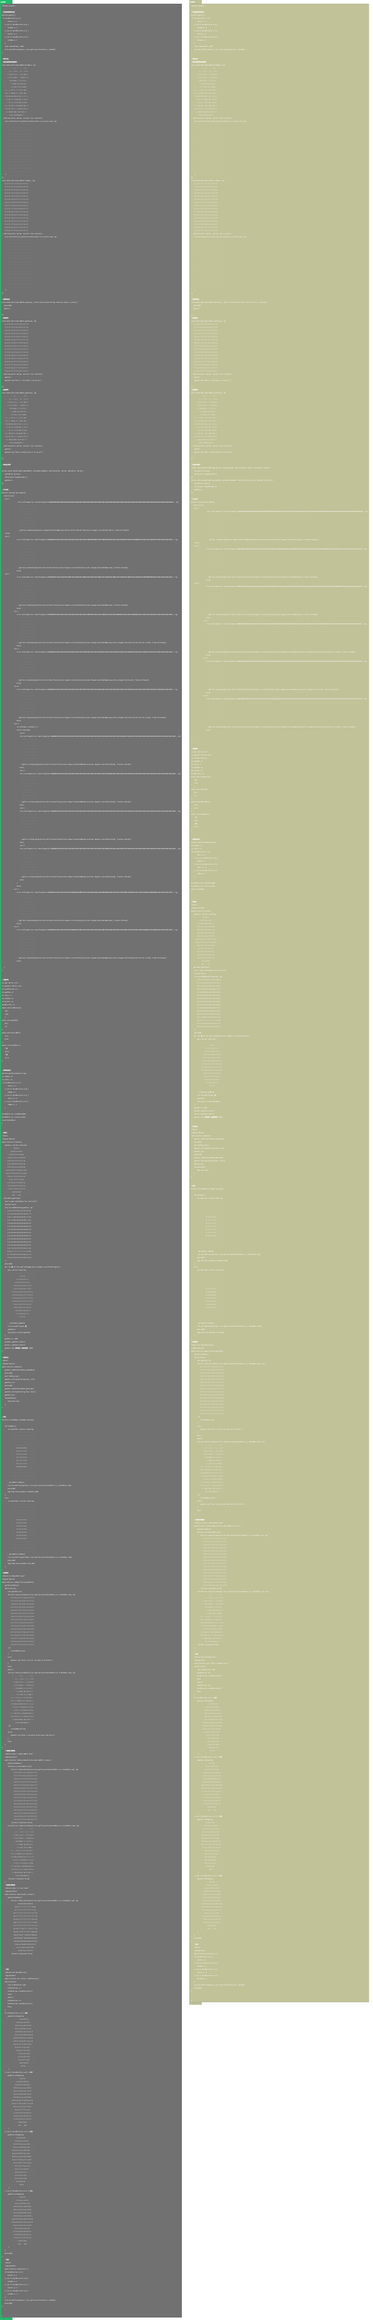
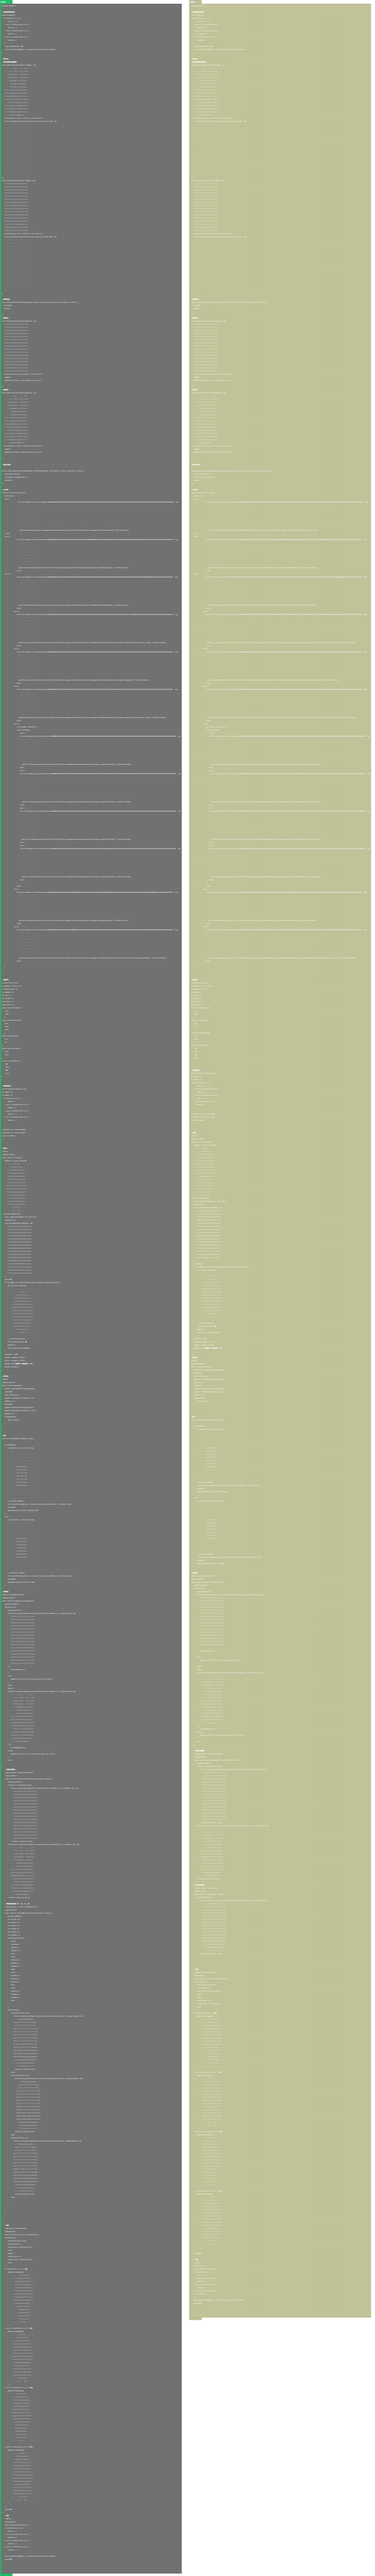
更新 pxt.json, main.blocks, main.ts

diff --git a/main.ts b/main.ts
@@ -6,8 +6,6 @@ namespace SpriteKind {
     export const iceMagic = SpriteKind.create()
     export const fireMagic = SpriteKind.create()
 }
-//% weight=100 color=#6699CC icon="\uf140" block="Getgems"
-//% groups='["Operate", "Move"]'
 namespace getgems {
 
 //角色碰到障碍物回退
